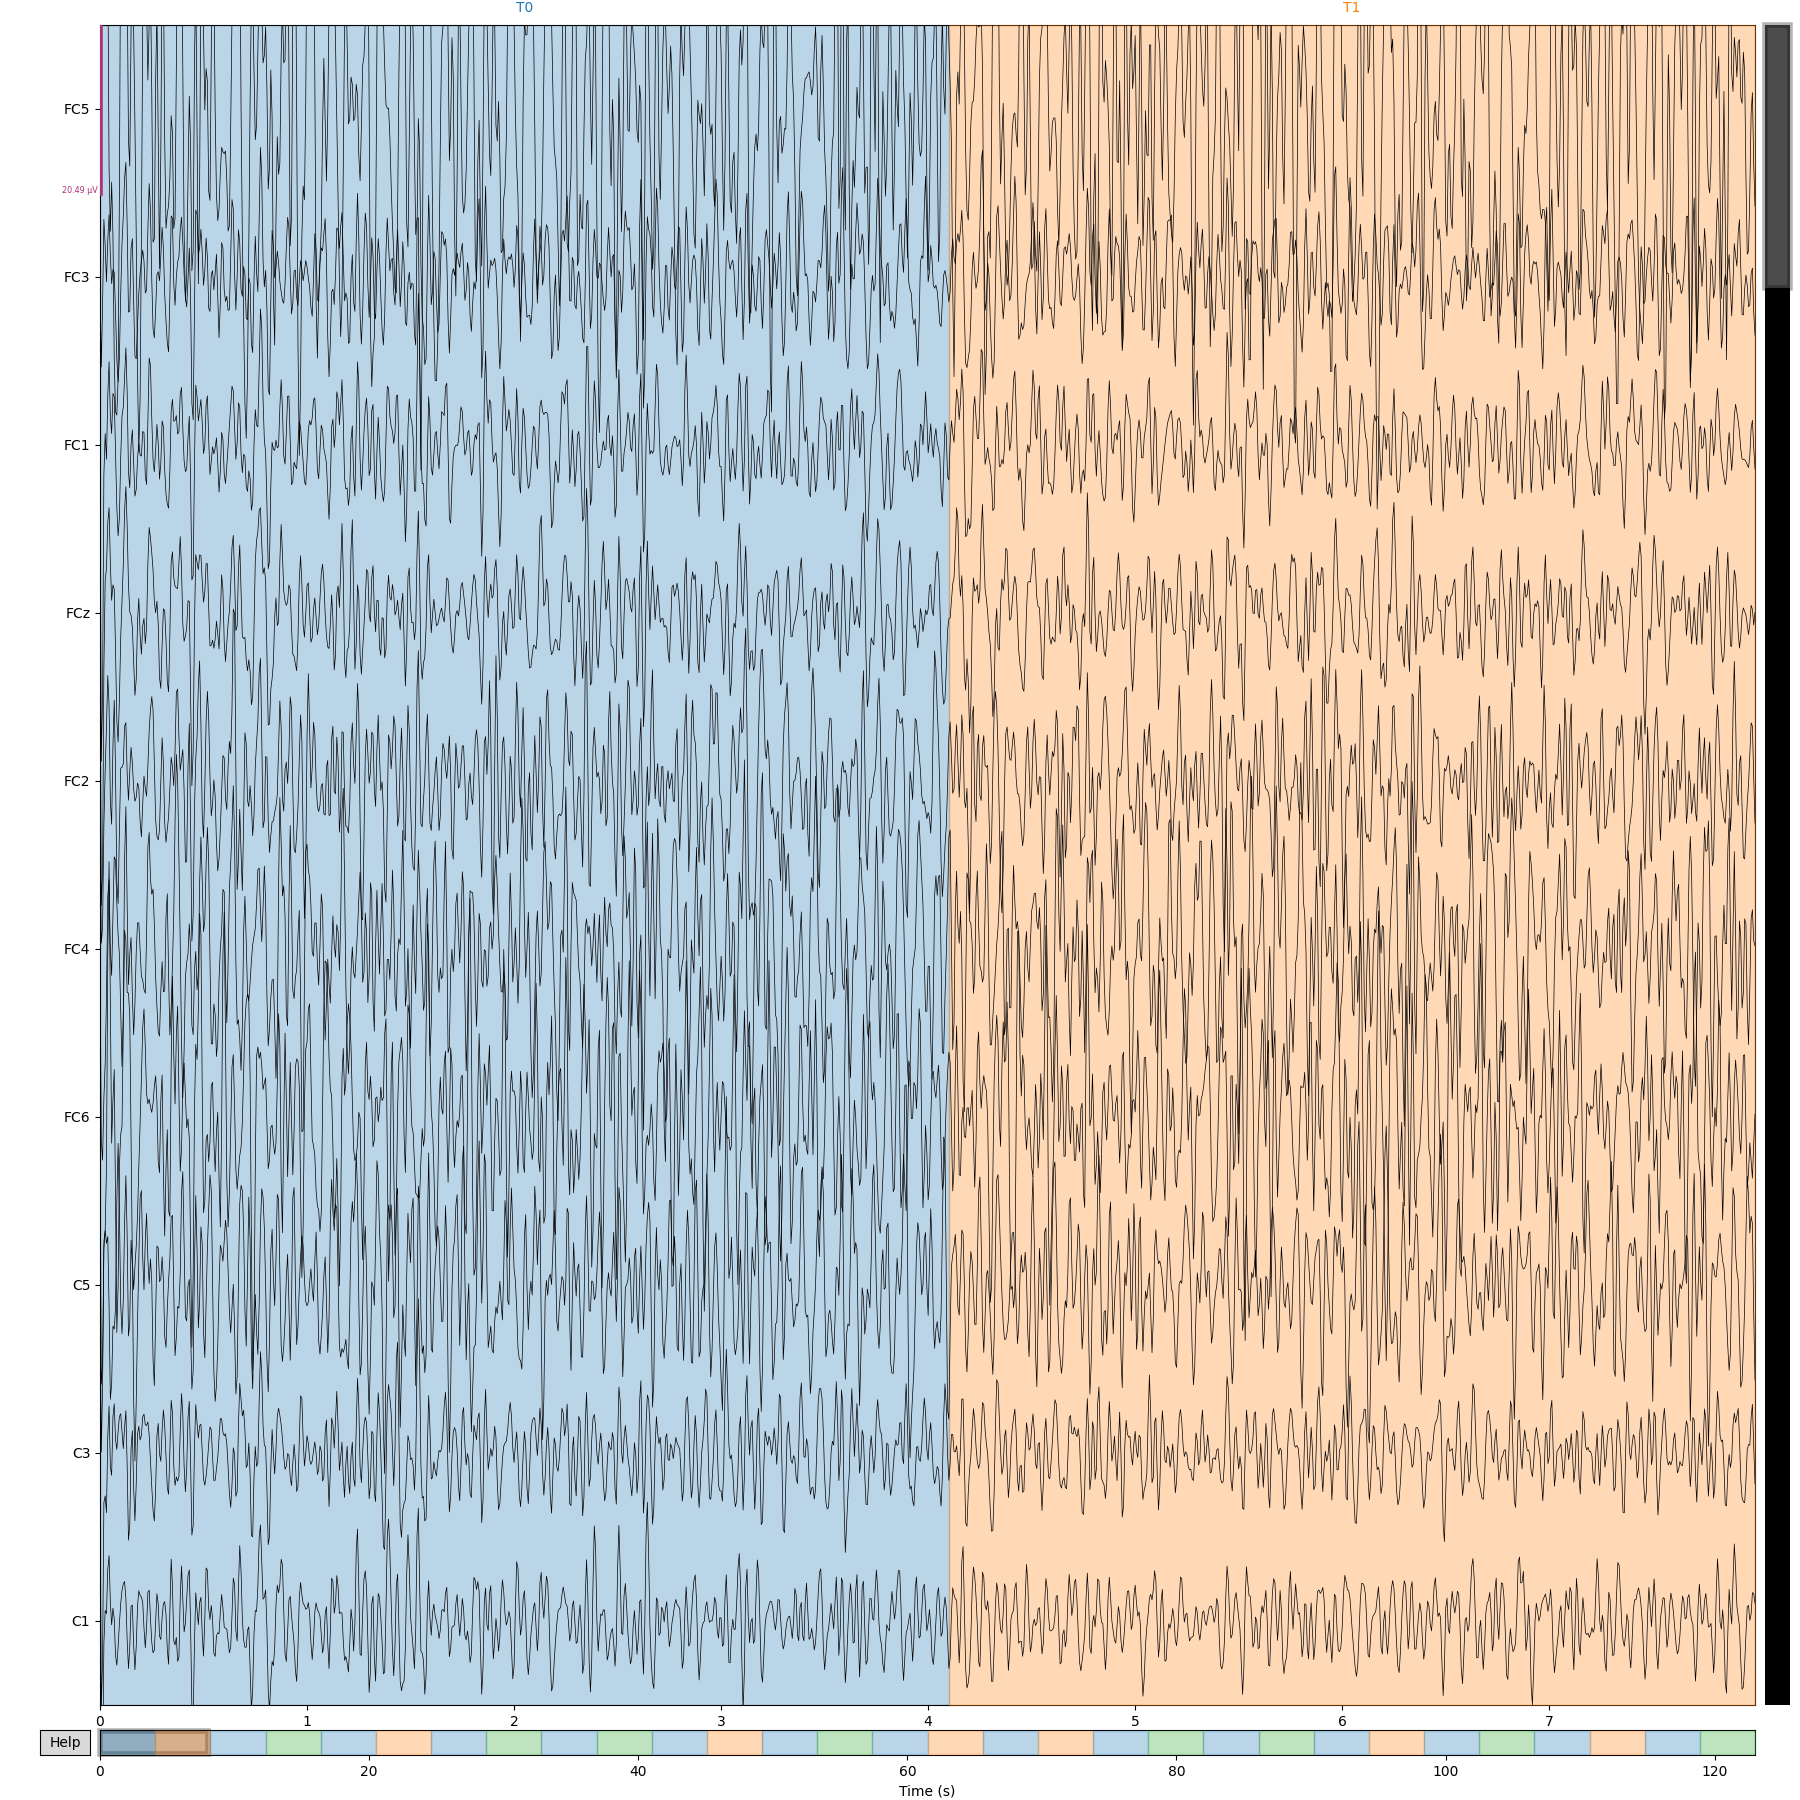
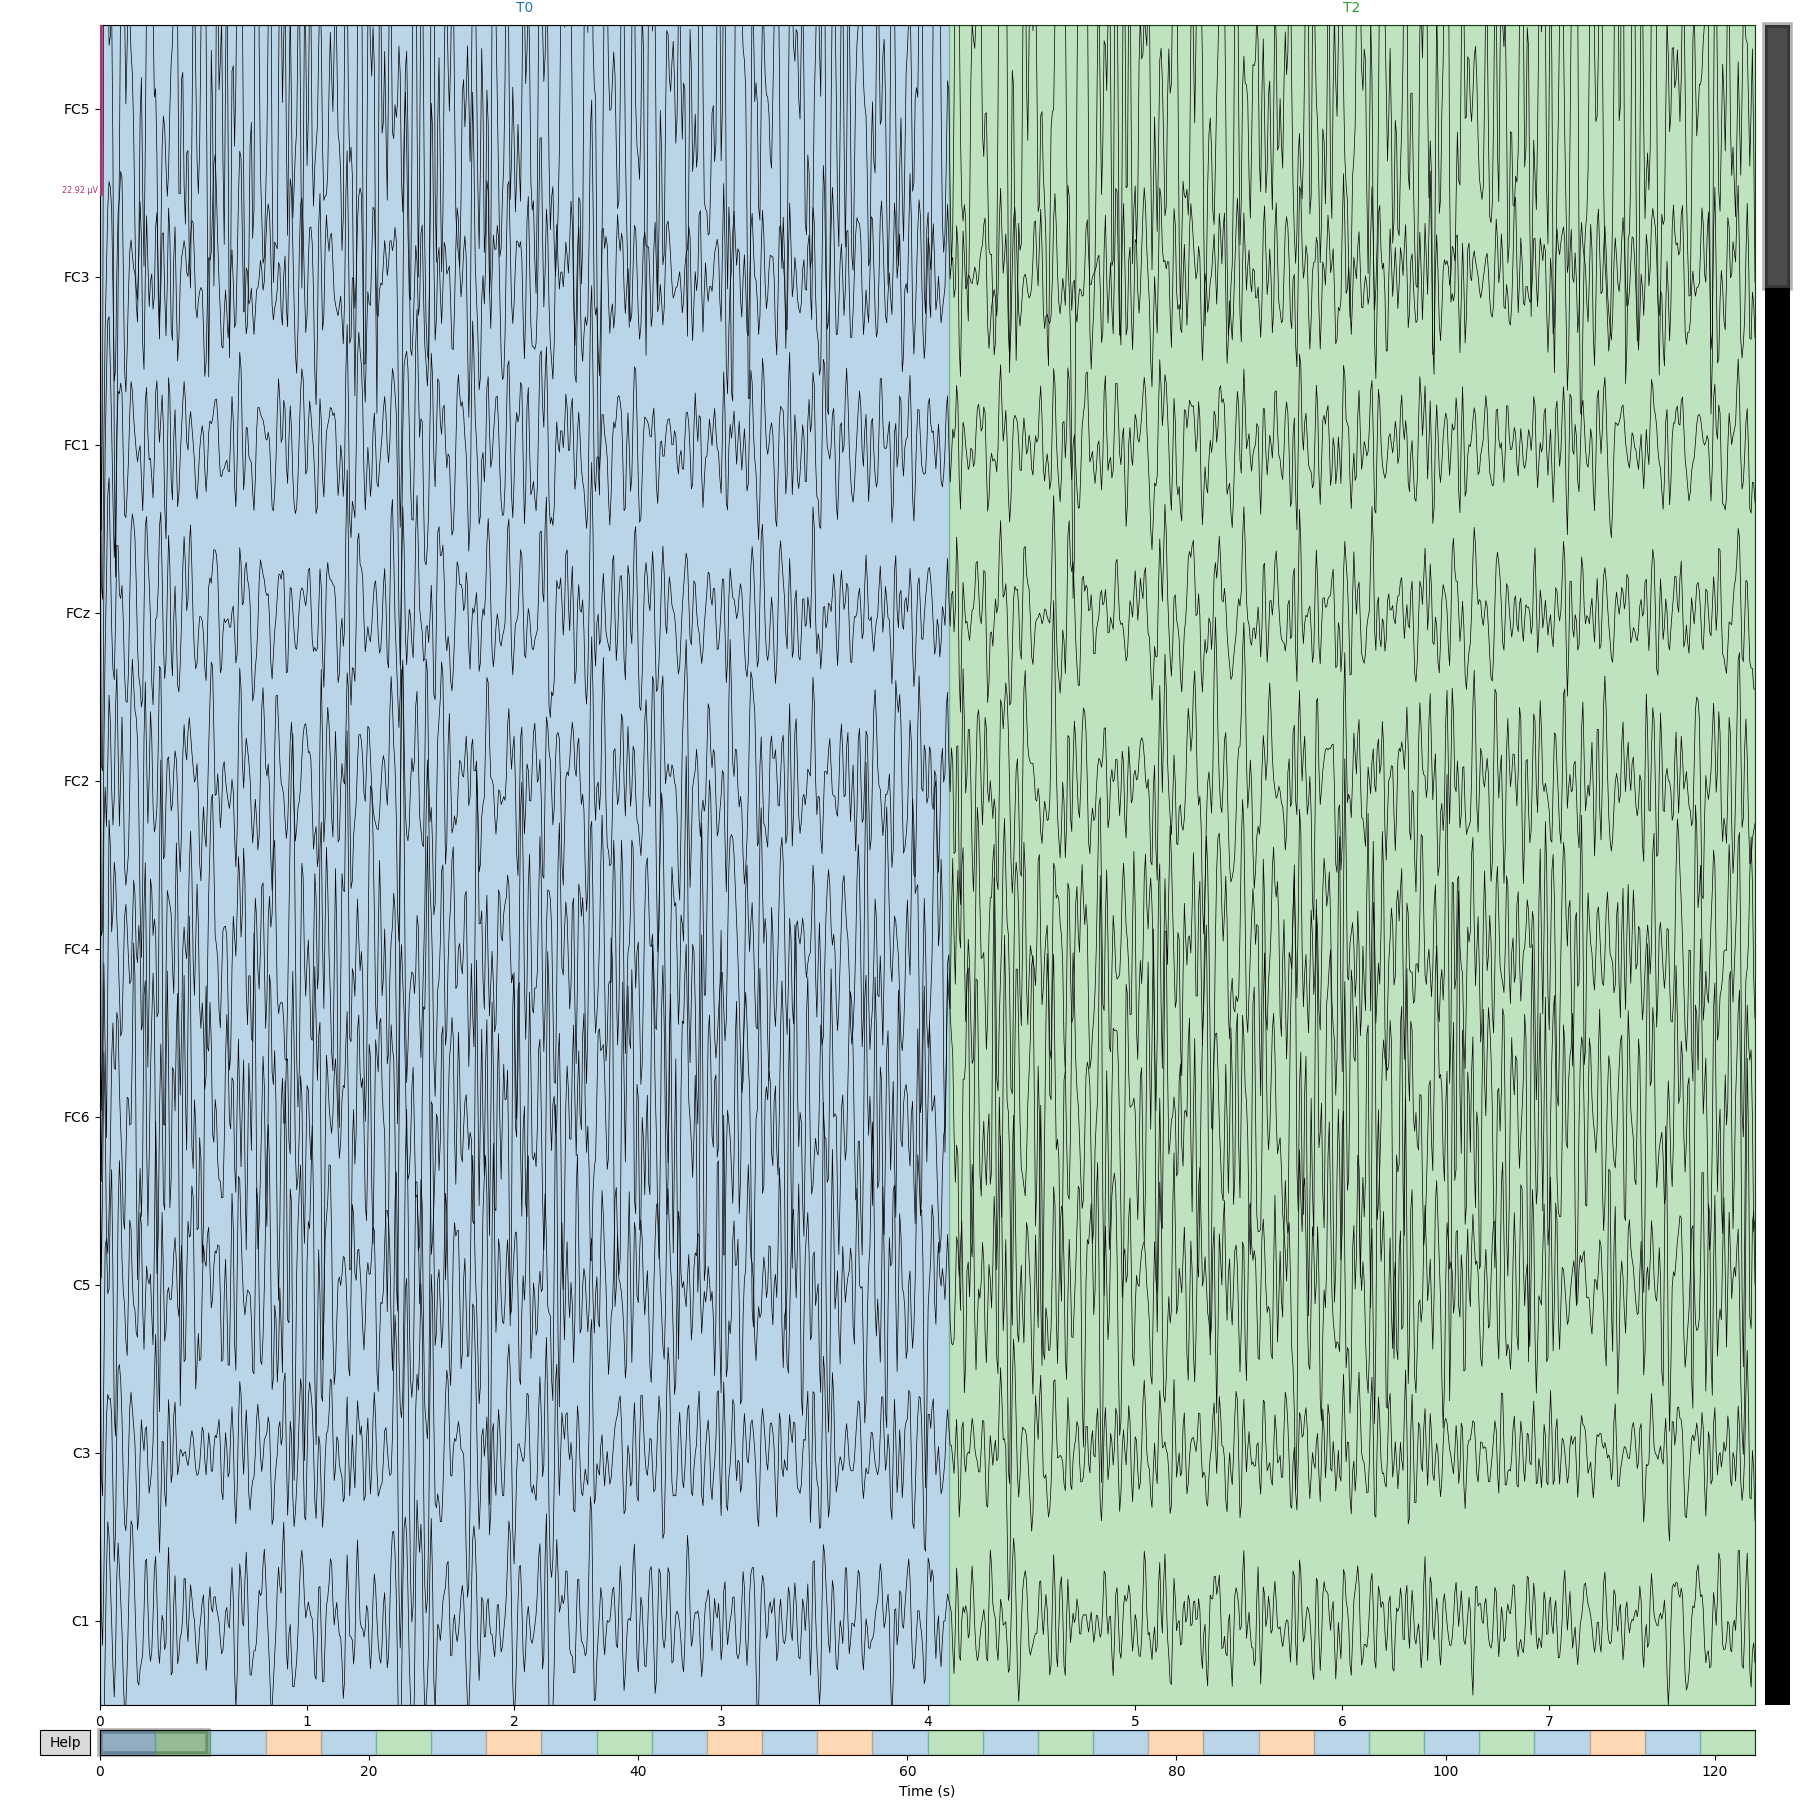
cross val score vilotalie

diff --git a/mybci.py b/mybci.py
@@ -3,7 +3,7 @@ from sklearn.pipeline import Pipeline
 from sklearn.preprocessing import StandardScaler
 from sklearn.discriminant_analysis import LinearDiscriminantAnalysis as LDA
 from sklearn.metrics import classification_report
-from sklearn.model_selection import cross_val_score
+from sklearn.model_selection import cross_val_score, ShuffleSplit
 # from sklearn.decomposition import PCA
 from pca import PCA
 import numpy as np
@@ -13,24 +13,28 @@ from preprocess import DataLoader
 # from mne.decoding import CSP
 
 
+# channel selection lacking
+
 class ClassifierBCI:
     def __init__(self, subject=None, run=None, task=None):
         if subject and run and task:
             model = DataLoader(subject, run)
             # maybe remove np save from save features function
-            features = model.features
-            labels = model.labels
+            # Filter to include only annotations from t1 and t2, excluding t0
+            mask = (model.labels == 2) | (model.labels == 3)
+            self.features = model.features[mask]
+            self.labels = model.labels[mask]
             self.X_train, self.X_test, self.y_train, self.y_test = train_test_split(
-                features,
-                labels,
+                self.features,
+                self.labels,
                 test_size=0.2,
                 random_state=42,
-                stratify=labels
+                stratify=self.labels
             )
             if task == "train":
                 self.train(self.X_train, self.y_train)
             elif task == "predict":
-                self.predict(self.X_test)
+                self.predict()
         else:
             experiment()
 
@@ -38,40 +42,38 @@ class ClassifierBCI:
     def train(self, X_train, y_train):
         self.pipeline = Pipeline([
             ('scaler', StandardScaler()),
-            ('pca', PCA(n_components=10)),
+            ('pca', PCA(n_components=4)),
             ('lda', LDA())
         ])
-        self.pipeline.fit(X_train, y_train)
-        train_score= self.pipeline.score(X_train, y_train)
+        cv = ShuffleSplit(n_splits=10, test_size=0.2, random_state=42)
+        features = np.log(X_train.mean(axis=2))
+        print("X_train shape:", X_train.shape)
+        print("features shape:", features.shape)
+        self.pipeline.fit(features, y_train)
+        train_score= self.pipeline.score(features, y_train)
         print("Train score:", train_score)
-        # Flatten epochs/features to 2D for sklearn (n_samples, n_features)
-        n_samples = features.shape[0]
-        X = features.reshape(n_samples, -1)
-        cv = min(5, n_samples)
-        if cv < 2:
-            cv = 2
-        print(f"Running cross_val_score with cv={cv} on flattened features (shape {X.shape})")
-        simple_pipeline = Pipeline([
-            ('scaler', StandardScaler()),
-            ('pca', PCA(n_components=10)),
-            ('lda', LDA())
-        ])
-        scores = cross_val_score(simple_pipeline, X, labels, cv=cv, scoring='accuracy', n_jobs=-1)
+
+        print(f"Running cross_val_score with cv=10 on flattened features (shape {self.X_train.shape})")
+
+        scores = cross_val_score(self.pipeline, features, self.y_train, cv=cv, scoring='accuracy', n_jobs=-1)
         print(f"Cross-validation accuracy: {scores.mean():.3f} ± {scores.std():.3f} (scores: {scores})")
 
 
-    def predict(self, X):
-        return self.pipeline.predict(X)
+    def predict(self):
+        y_pred = self.pipeline.predict(self.X_test)
+        print("Classification report:", classification_report(self.y_test, y_pred))
+        # Plot the label distribution
+        # plot_label_distribution(features, labels)
+        print("variance ratio: ", np.sum(self.pipeline.named_steps['pca'].explained_variance_ratio))
+
+        return self.pipeline.predict(self.X_test)
 
 
     def score(self, X, y):
         return self.pipeline.score(X, y)
     
-    def experiment(self)
+    def experiment(self):
         ...
-    
-
-    
 
 
 def main():
@@ -82,42 +84,16 @@ def main():
     parser.add_argument("model", type=str, nargs='?', help="Type of model to train. Default is LDA.", default="LDA")
     args = parser.parse_args()
 
-    features = np.load("data/X_train.npy")
-    labels = np.load("data/y_train.npy")
     
     if args.task and args.subject and args.run:
         print(f"Subject: {args.subject}, Run: {args.run}, Task: {args.task}")
         mybci = ClassifierBCI(subject=args.subject, run=args.run, task=args.task)
-    if args == None:
+    elif args == None:
         print("Running experiment with default settings.")
         mybci = ClassifierBCI()
     else:
-        print("Missing arguments. Please provide subject, run, and task or no arguments at all.")
+        print("Missing arguments. Please provide subject, run, and task or no arguments at all for experiment.")
         return
-
-
-    # proceed with a train/test split on the flattened data
-    X_train, X_test, y_train, y_test = train_test_split(
-        X,
-        labels,
-        test_size=0.2,
-        random_state=42,
-        stratify=labels
-    )
-    if args.task == "predict":
-        print("Prediction mode not implemented yet.")
-        return
-    else:
-        print("Training mode.")
-
-
-    y_pred = pipeline.predict(X_test)
-    print("Classification report:", classification_report(y_test, y_pred))
-
-    # Plot the label distribution
-    # plot_label_distribution(features, labels)
-    print("variance ratio: ", np.sum(pipeline.named_steps['pca'].explained_variance_ratio))
-
 
 
 if __name__ == "__main__":

diff --git a/utils.py b/utils.py
@@ -42,7 +42,9 @@ def open_subject(subject, run):
     try:
         subject_id = str(subject).zfill(3)
         run_id = str(run).zfill(2)
-        file_path = f"/sgoinfre/students/gkrusta/physionet.org/files/eegmmidb/1.0.0/S{subject_id}/S{subject_id}R{run_id}.edf"
+        # file_path = f"/sgoinfre/students/gkrusta/physionet.org/files/eegmmidb/1.0.0/S{subject_id}/S{subject_id}R{run_id}.edf"
+        file_path = f"/home/gkrusta/physionet.org/files/eegmmidb/1.0.0/S{subject_id}/S{subject_id}R{run_id}.edf"
+
         print("Opening subject:", file_path)
         raw = mne.io.read_raw_edf(file_path, preload=True)
         data = raw.get_data()
@@ -63,12 +65,10 @@ def describe_data(model):
     print("n_channels:", model.n_channels)
     print("channel names:", model.channel_names)
     print("sampling rate:", model.sampling_rate)
-    print("time shape:", model.time)
-    print("time shape 2:", model.raw.times)
+    print("time marks:", model.time)
     print("data shape:", model.data.shape)
-    print("RAW ANOTAION: ", model.raw.annotations)
-    print("Annotations:", model.raw.annotations)
 
+    print("Annotations:", model.raw.annotations)
     for annot in model.raw.annotations:
         print(f"  Onset: {annot['onset']}, Duration: {annot['duration']:.2f}s, Description: {annot['description']}")
     
